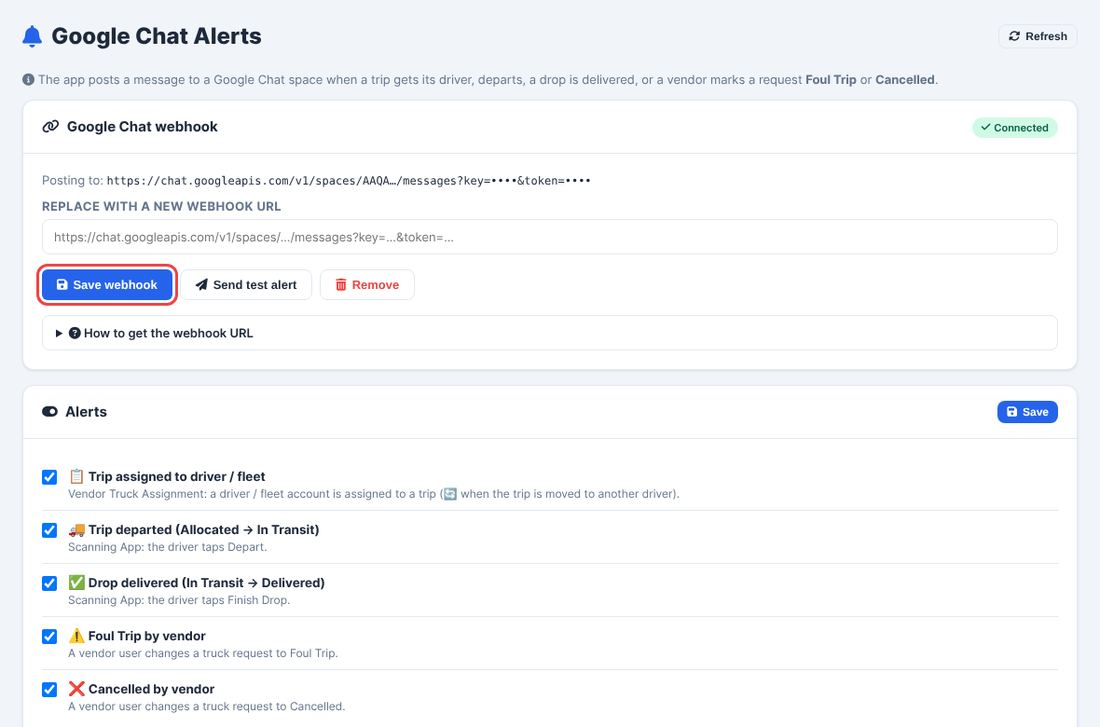
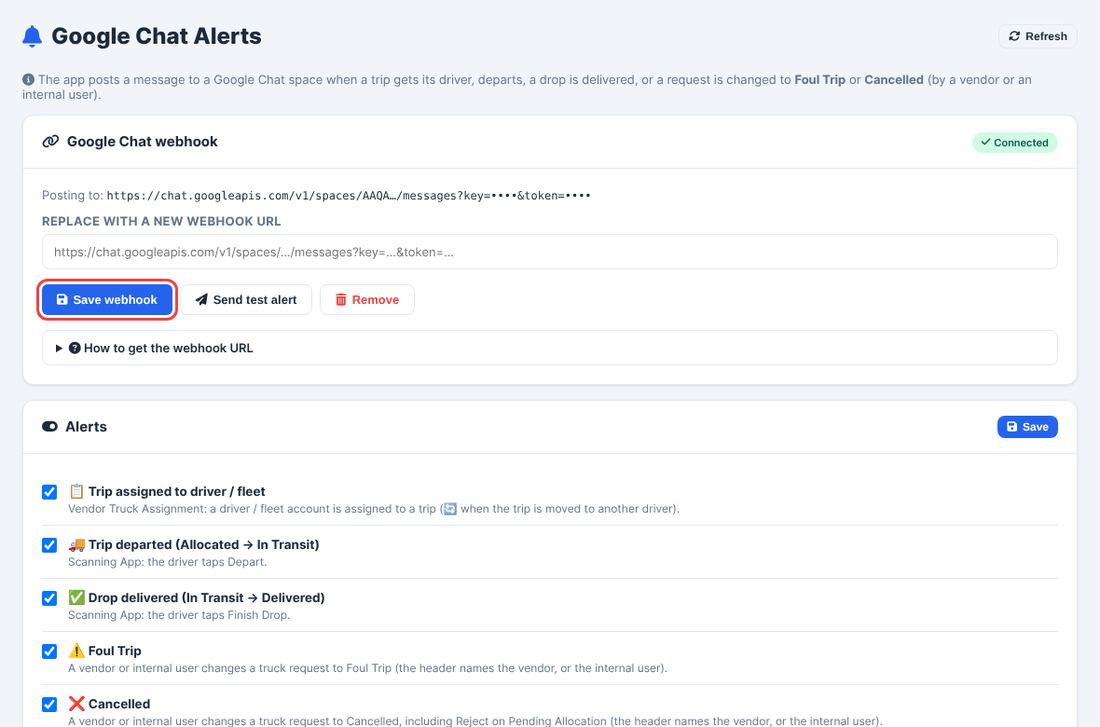
Chat alerts: Foul Trip / Cancelled by internal users too, incl. Pending Reject
A vendor change is headed with the vendor; an internal (non-vendor) change with the
user's name. Reject on Pending Allocation (which cancels the request) now alerts.

diff --git a/backend/static/index.html b/backend/static/index.html
@@ -513,7 +513,7 @@ body.scan-mode .layout{display:none}
 <!-- Google Chat Alerts (master admin) -->
 <section class="pg" id="pg-chat-alerts">
 <div class="pg-hdr"><h1><i class="fas fa-bell" style="color:var(--pri)"></i> Google Chat Alerts</h1><div class="acts"><button class="btn btn-o btn-sm" onclick="loadChatAlerts()"><i class="fas fa-sync-alt"></i> Refresh</button></div></div>
-<div style="font-size:13px;color:var(--muted);margin-bottom:14px"><i class="fas fa-info-circle"></i> The app posts a message to a Google Chat space when a trip gets its driver, departs, a drop is delivered, or a vendor marks a request <strong>Foul Trip</strong> or <strong>Cancelled</strong>.</div>
+<div style="font-size:13px;color:var(--muted);margin-bottom:14px"><i class="fas fa-info-circle"></i> The app posts a message to a Google Chat space when a trip gets its driver, departs, a drop is delivered, or a request is changed to <strong>Foul Trip</strong> or <strong>Cancelled</strong> (by a vendor or an internal user).</div>
 <div class="card" style="margin-bottom:16px"><div class="card-h"><h3><i class="fas fa-link"></i> Google Chat webhook</h3><span id="caStatus"></span></div><div class="card-b" id="caHook"><p>Loading...</p></div></div>
 <div class="card" style="margin-bottom:16px"><div class="card-h"><h3><i class="fas fa-toggle-on"></i> Alerts</h3><button class="btn btn-p btn-sm" onclick="saveChatToggles()"><i class="fas fa-save"></i> Save</button></div><div class="card-b" id="caTypes"><p>Loading...</p></div></div>
 <div class="card"><div class="card-h"><h3><i class="fas fa-clipboard-list"></i> Alert log</h3><span id="caCnt" style="font-size:12px;color:var(--muted)"></span></div><div class="card-b" style="padding:0"><div class="tw" style="max-height:calc(100vh - 360px);min-height:180px;overflow:auto"><table><thead><tr><th>Date / Time</th><th>Alert</th><th>Trip ID</th><th>Truck Request #</th><th>Result</th><th>Detail</th></tr></thead><tbody id="caLog"><tr><td colspan="6" class="empty"><p>Loading...</p></td></tr></tbody></table></div></div></div>
@@ -674,7 +674,7 @@ body.scan-mode .layout{display:none}
 <div class="card" style="margin-bottom:16px;scroll-margin-top:90px" data-gid="g-chat">
 <div class="card-h"><h3><i class="fas fa-bell"></i> 20. Google Chat Alerts (Master Admin)</h3><a href="javascript:void(0)" onclick="return guideJump(this,'top')" style="font-size:12px;color:var(--muted);text-decoration:none"><i class="fas fa-arrow-up"></i> Top</a></div>
 <div class="card-b">
-<ol class="guide-steps"><li>The app posts to a Google Chat space when: a trip is <strong>assigned to a driver / fleet</strong> (or moved to another driver), the driver taps <strong>Depart</strong> (In Transit), the driver taps <strong>Finish Drop</strong> (Delivered), or a <strong>vendor</strong> changes a request to <strong>Foul Trip</strong> or <strong>Cancelled</strong>.</li><li>Set it up once: in Google Chat open the space &rarr; space name &rarr; <strong>Apps &amp; integrations</strong> &rarr; <strong>Webhooks</strong> &rarr; add one and copy its URL. In the app open <strong>Administration &rarr; Google Chat Alerts</strong>, paste the URL, click <strong>Save webhook</strong>, then <strong>Send test alert</strong>.</li><li>Tick or untick each alert under <strong>Alerts</strong> and click <strong>Save</strong>.</li><li>Each alert starts with its own emoji so it is easy to spot in Chat: &#x1F4CB; trip assigned to driver / fleet, &#x1F504; trip re-assigned to another driver, &#x1F69A; trip departed (In Transit), &#x2705; drop delivered, &#x26A0;&#xFE0F; Foul Trip by vendor, &#x274C; Cancelled by vendor (&#x1F514; = test alert).</li><li>Trip alerts list the trip, driver, phone, vendor, truck, origin and final call, then every truck request on the trip (MAWBs, account, packaging, Revised Qty, destination, drop #). When the trip has no final call yet, each request&rsquo;s <strong>Initial Call (TBC)</strong> is shown instead.</li><li>Drop delivered, Foul Trip and Cancelled alerts name the <strong>vendor</strong> in the title and show the request (Trip ID, drop #, MAWBs, account, packaging, Revised Qty, ports). Drop delivered and Foul Trip alerts also show the driver / fleet username, driver name, phone, truck plate and truck type.</li><li>The <strong>Alert log</strong> shows every alert: <strong>Sent</strong>, <strong>Failed</strong> (with Google Chat&rsquo;s reason) or <strong>Not sent</strong> (no webhook set).</li></ol>
+<ol class="guide-steps"><li>The app posts to a Google Chat space when: a trip is <strong>assigned to a driver / fleet</strong> (or moved to another driver), the driver taps <strong>Depart</strong> (In Transit), the driver taps <strong>Finish Drop</strong> (Delivered), or a request is changed to <strong>Foul Trip</strong> or <strong>Cancelled</strong> &mdash; by a vendor, or by an internal user (on Edit, or <strong>Reject</strong> on Pending Allocation).</li><li>Set it up once: in Google Chat open the space &rarr; space name &rarr; <strong>Apps &amp; integrations</strong> &rarr; <strong>Webhooks</strong> &rarr; add one and copy its URL. In the app open <strong>Administration &rarr; Google Chat Alerts</strong>, paste the URL, click <strong>Save webhook</strong>, then <strong>Send test alert</strong>.</li><li>Tick or untick each alert under <strong>Alerts</strong> and click <strong>Save</strong>.</li><li>Each alert starts with its own emoji so it is easy to spot in Chat: &#x1F4CB; trip assigned to driver / fleet, &#x1F504; trip re-assigned to another driver, &#x1F69A; trip departed (In Transit), &#x2705; drop delivered, &#x26A0;&#xFE0F; Foul Trip, &#x274C; Cancelled (&#x1F514; = test alert).</li><li>Trip alerts list the trip, driver, phone, vendor, truck, origin and final call, then every truck request on the trip (MAWBs, account, packaging, Revised Qty, destination, drop #). When the trip has no final call yet, each request&rsquo;s <strong>Initial Call (TBC)</strong> is shown instead.</li><li>Drop delivered, Foul Trip and Cancelled alerts name the <strong>vendor</strong> in the title (for Foul Trip and Cancelled made by an internal user, the title names <strong>that person</strong> instead) and show the request (Trip ID, drop #, MAWBs, account, packaging, Revised Qty, ports). Drop delivered and Foul Trip alerts also show the driver / fleet username, driver name, phone, truck plate and truck type.</li><li>The <strong>Alert log</strong> shows every alert: <strong>Sent</strong>, <strong>Failed</strong> (with Google Chat&rsquo;s reason) or <strong>Not sent</strong> (no webhook set).</li></ol>
 <div class="guide-warn"><i class="fas fa-triangle-exclamation"></i> Anyone with the webhook URL can post to the space &mdash; keep it private. The app never shows it again in full.</div>
 <div class="g-shots"><figure class="g-shot"><a href="/guide/20-chat-alerts.jpg" target="_blank" rel="noopener" title="Open full size"><img src="/guide/20-chat-alerts.jpg" alt="Paste the webhook URL, Save, then Send test alert." loading="lazy"></a><figcaption><i class="fas fa-image"></i> Paste the webhook URL, Save, then Send test alert.</figcaption></figure><figure class="g-shot"><a href="/guide/20b-chat-log.jpg" target="_blank" rel="noopener" title="Open full size"><img src="/guide/20b-chat-log.jpg" alt="Switch alerts on / off; every alert is in the log." loading="lazy"></a><figcaption><i class="fas fa-image"></i> Switch alerts on / off; every alert is in the log.</figcaption></figure></div>
 </div></div>

diff --git a/backend/main.py b/backend/main.py
@@ -3391,12 +3391,19 @@ async def update_request(rid: int, request: Request):
     prev = _status_row(rid) or {}
     before = prev.get("status_id")
     res = await _update_request_core(rid, request)
-    # Google Chat: a vendor user moved this request to Foul Trip or Cancelled.
-    if is_vendor_role(user.get("role", "")):
-        after = _status_of(rid)
-        if after != before and after in (5, 7):
-            alert_request("foul_trip" if after == 7 else "cancelled", rid, _alert_before(prev))
+    _alert_status_change(user, rid, prev)
     return res
+
+def _alert_status_change(user, rid, prev):
+    """Google Chat: someone moved this request to Foul Trip or Cancelled. A vendor user is
+    named by the vendor; an internal user (any non-vendor role) by their own name."""
+    prev = prev or {}
+    after = _status_of(rid)
+    if after == prev.get("status_id") or after not in (5, 7):
+        return
+    by = None if is_vendor_role((user or {}).get("role", "")) else \
+        ((user or {}).get("name") or (user or {}).get("email") or "internal user")
+    alert_request("foul_trip" if after == 7 else "cancelled", rid, _alert_before(prev), by)
 
 async def _update_request_core(rid: int, request: Request):
     user = get_user(request)
@@ -4672,6 +4679,19 @@ def _free_truck_assignment(rids, email):
 
 @app.post("/api/pending-allocations/{pid}/reject")
 async def reject_alloc(pid: int, request: Request):
+    user = get_user(request)
+    if LOCAL_MODE:
+        pa0 = next((p for p in _store["pending_allocations"] if p["id"] == pid), None)
+    else:
+        pa0 = db_1("SELECT truck_request_id FROM pending_allocations WHERE id=%s", (pid,))
+    rid0 = (pa0 or {}).get("truck_request_id")
+    prev = _status_row(rid0) if rid0 else None
+    res = await _reject_alloc_core(pid, request)
+    if rid0:
+        _alert_status_change(user, rid0, prev)
+    return res
+
+async def _reject_alloc_core(pid: int, request: Request):
     user = get_user(request)
     body = await request.json()
     reason = body.get("reason", "Rejected")
@@ -7952,10 +7972,10 @@ CHAT_ALERT_TYPES = [
      "Scanning App: the driver taps Depart."),
     ("delivered", "Drop delivered (In Transit → Delivered)",
      "Scanning App: the driver taps Finish Drop."),
-    ("foul_trip", "Foul Trip by vendor",
-     "A vendor user changes a truck request to Foul Trip."),
-    ("cancelled", "Cancelled by vendor",
-     "A vendor user changes a truck request to Cancelled."),
+    ("foul_trip", "Foul Trip",
+     "A vendor or internal user changes a truck request to Foul Trip (the header names the vendor, or the internal user)."),
+    ("cancelled", "Cancelled",
+     "A vendor or internal user changes a truck request to Cancelled, including Reject on Pending Allocation (the header names the vendor, or the internal user)."),
 ]
 CHAT_ALERT_LABEL = {k: lbl for k, lbl, _ in CHAT_ALERT_TYPES}
 CHAT_ALERT_LABEL["test"] = "Test alert"
@@ -8248,7 +8268,7 @@ def _alert_vendor_name(r, d=None, tk=None):
             return n
     return (tk or {}).get("vendor") or (d or {}).get("vendor_name") or ""
 
-def _alert_request_text(atype, rid, before=None):
+def _alert_request_text(atype, rid, before=None, by_user=None):
     """Request alert (delivered / foul trip / cancelled). `before` holds the request's
     driver / truck / vendor from just before the change, in case the change cleared them."""
     rows = _alert_rows([rid])
@@ -8265,7 +8285,11 @@ def _alert_request_text(atype, rid, before=None):
     vendor = _alert_vendor_name(dict(r, vendor_id=r.get("vendor_id") or before.get("vendor_id")), d, tk)
     title = {"delivered": "Drop delivered", "foul_trip": "Truck request updated to Foul Trip by vendor",
              "cancelled": "Truck request Cancelled by vendor"}[atype]
-    if vendor:
+    if by_user and atype in ("foul_trip", "cancelled"):
+        # Changed by an internal (non-vendor) user: the header names that person.
+        title = {"foul_trip": f"Truck request updated to Foul Trip by {by_user}",
+                 "cancelled": f"Truck request Cancelled by {by_user}"}[atype]
+    elif vendor:
         title = {"delivered": f"Drop delivered \u2014 {vendor}",
                  "foul_trip": f"Truck request updated to Foul Trip by {vendor}",
                  "cancelled": f"Truck request Cancelled by {vendor}"}[atype]
@@ -8304,8 +8328,8 @@ def _alert_before(row):
     row = row or {}
     return {k: row.get(k) for k in ("driver_account_id", "assigned_truck_id", "vendor_id")}
 
-def alert_request(atype, rid, before=None):
-    chat_alert(atype, lambda: _alert_request_text(atype, rid, before))
+def alert_request(atype, rid, before=None, by_user=None):
+    chat_alert(atype, lambda: _alert_request_text(atype, rid, before, by_user))
 
 def _chat_log_rows(limit=200):
     if LOCAL_MODE:
